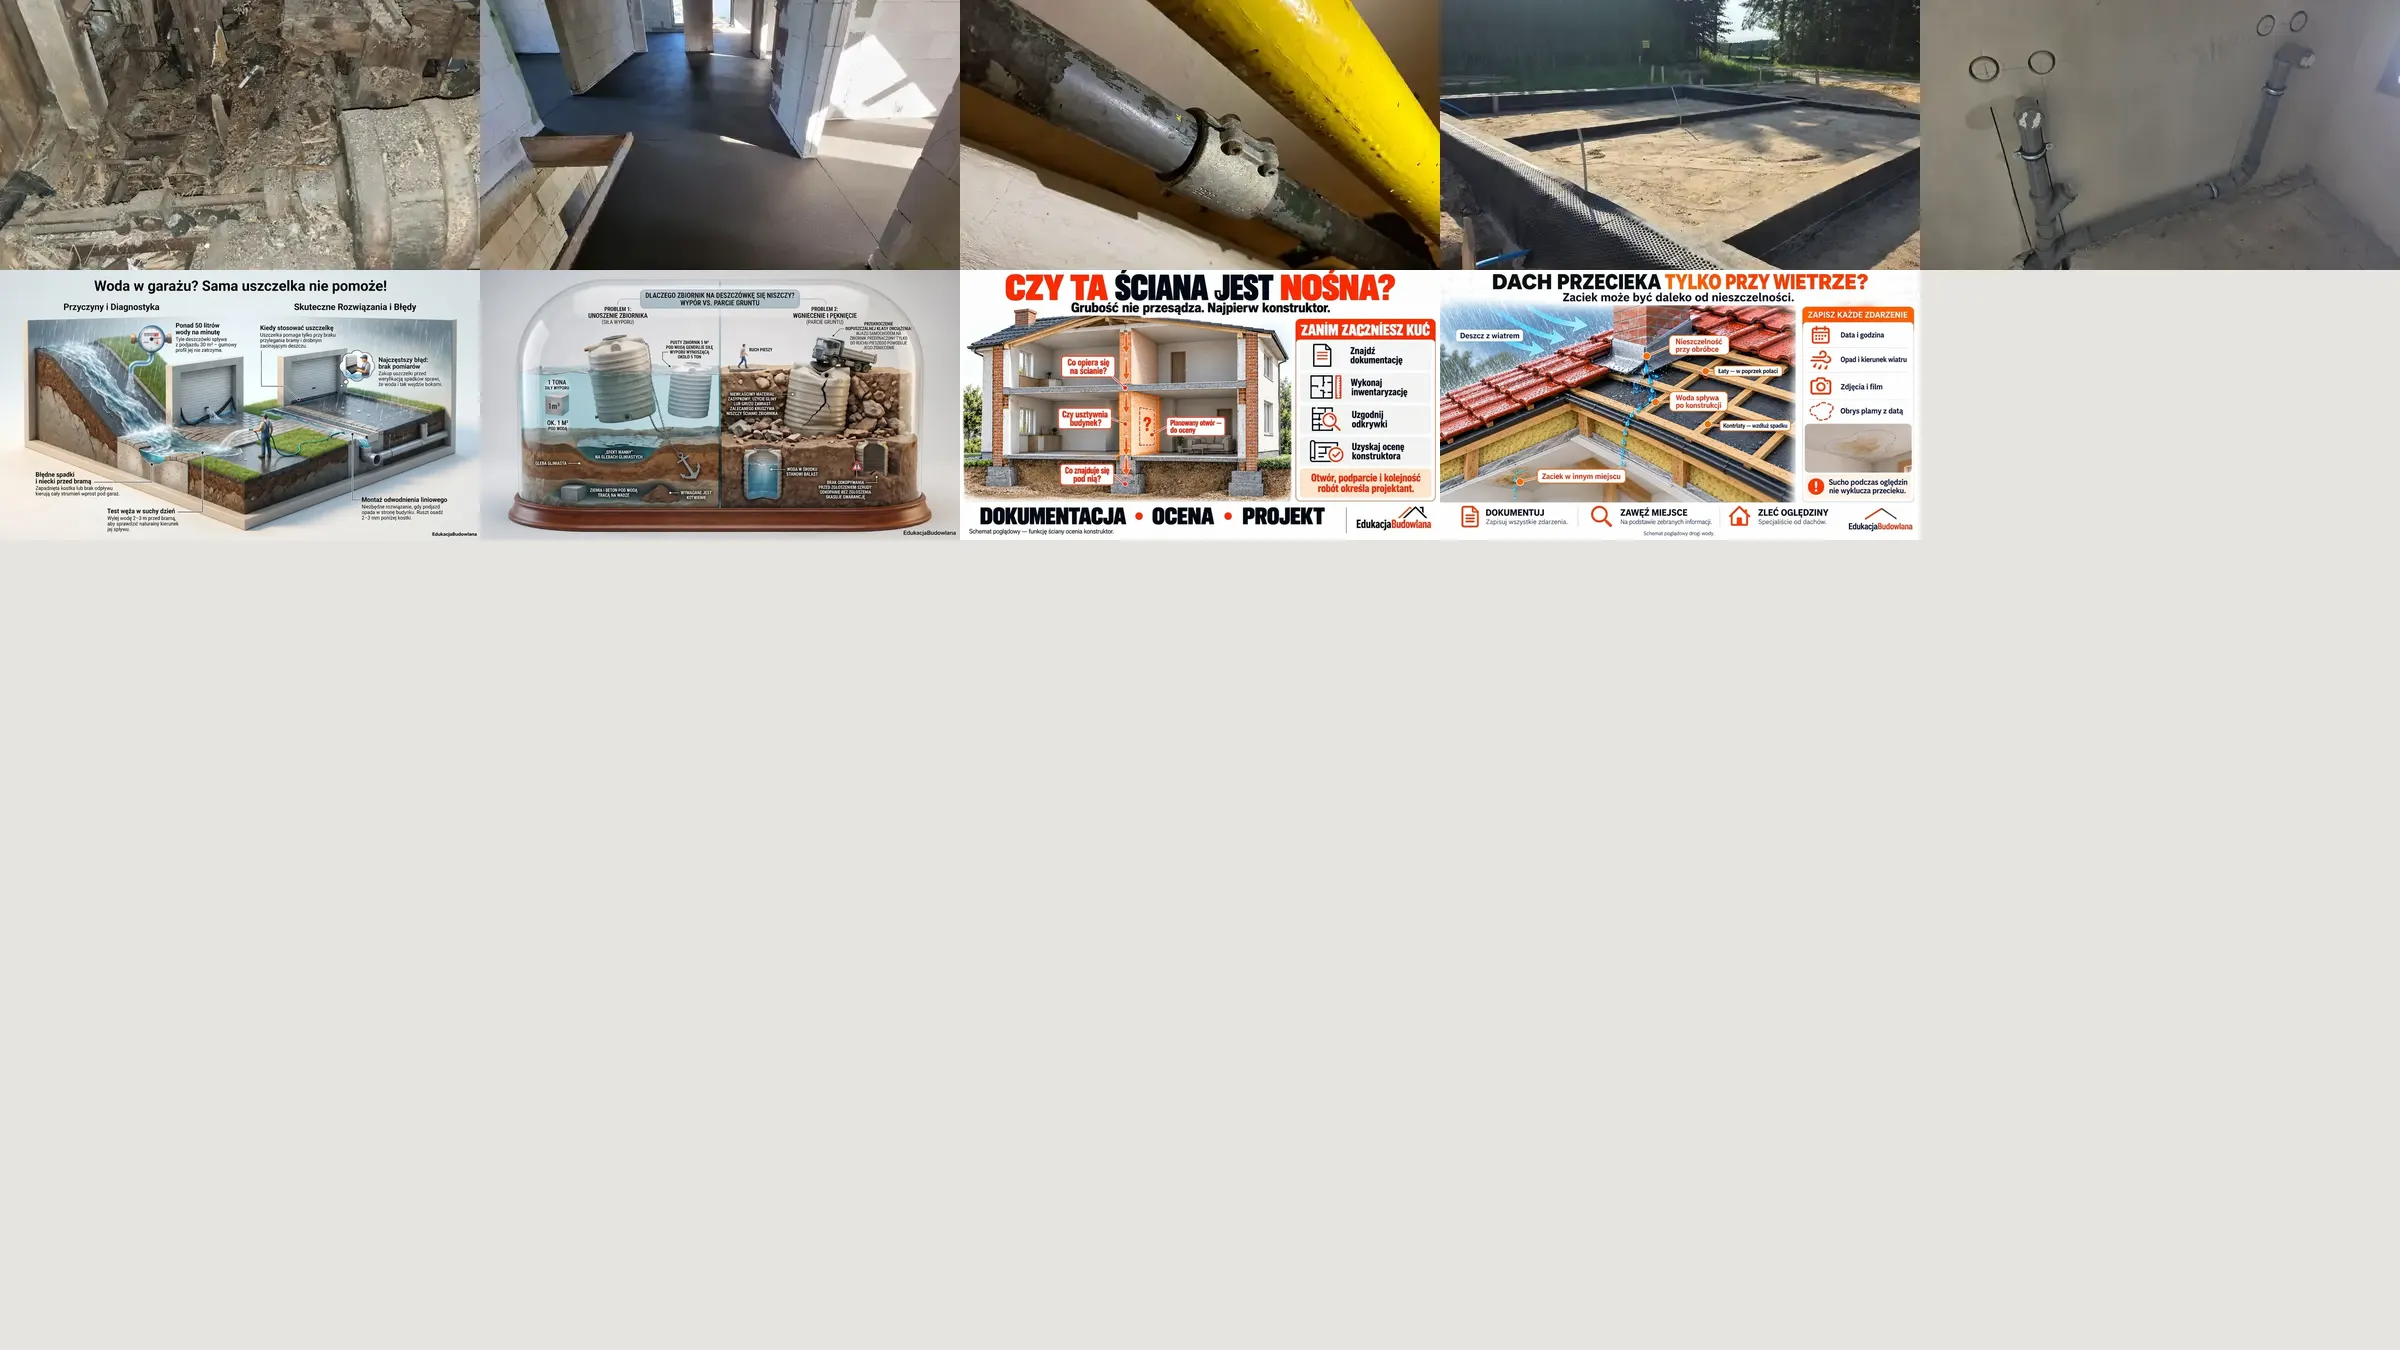
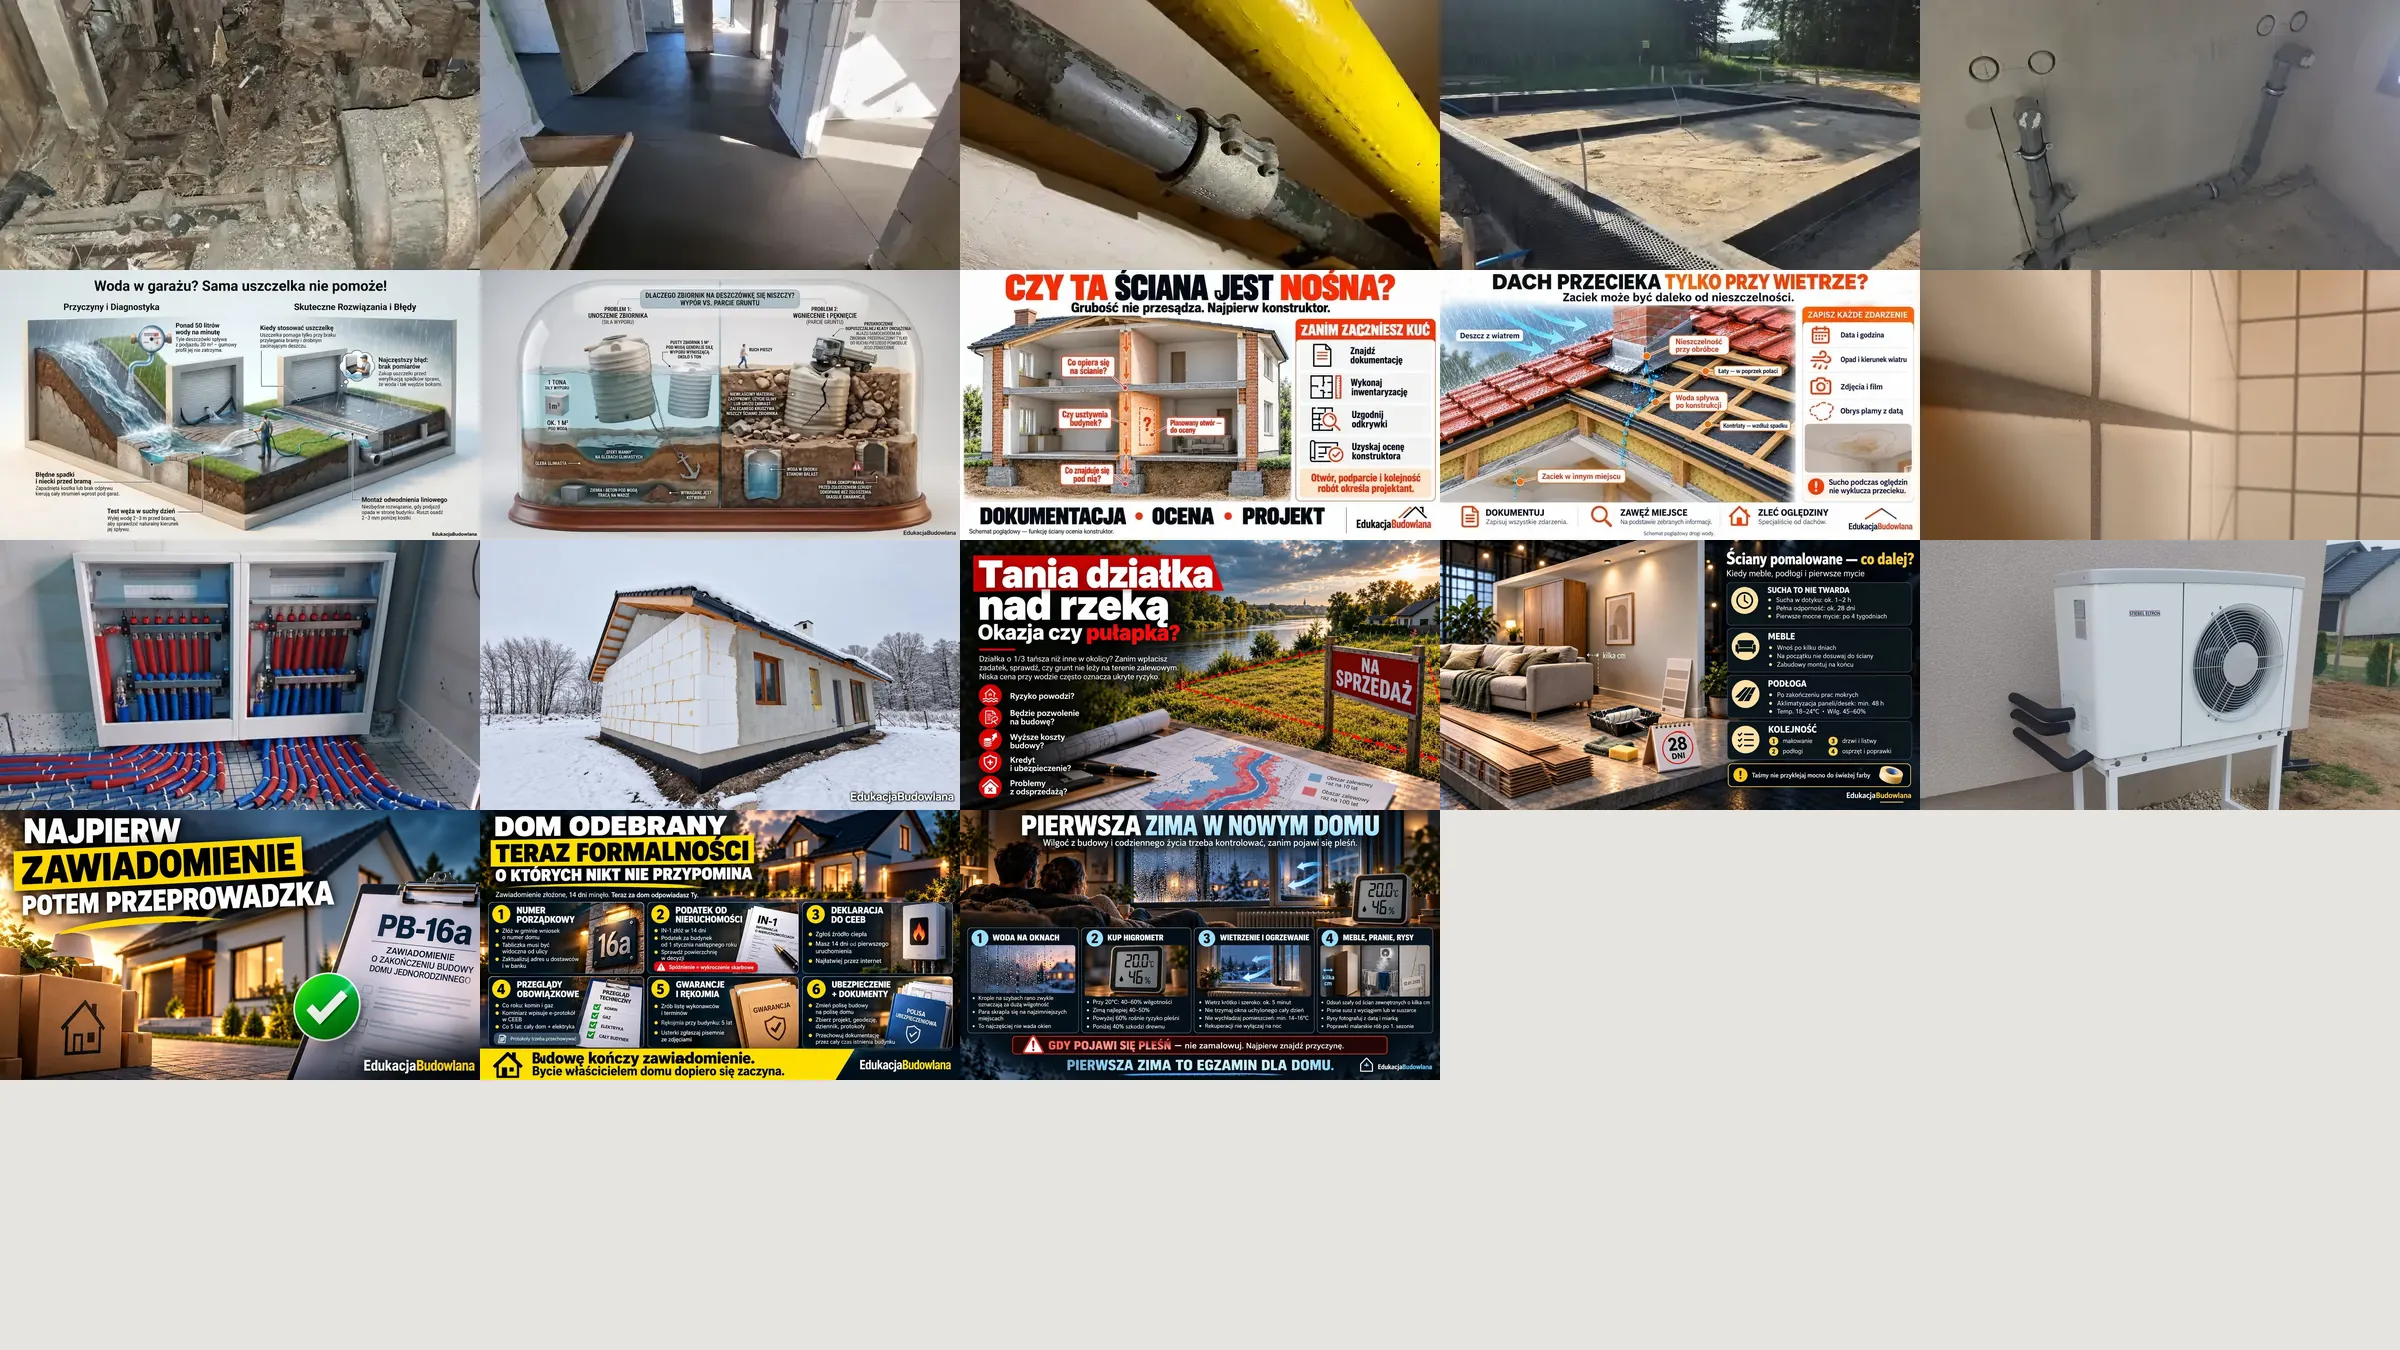
Arkusz miniatur s49 ze świeżej wersji serwera + 9 nowych miniatur; skill i plik kontrolny zgodne z mechanizmem paczek
Claude-Session: https://claude.ai/code/session_01SPUb9MEe2w7EqL1jkDi2wE

diff --git a/_narzedzia/SKILL.md b/_narzedzia/SKILL.md
@@ -1,30 +1,31 @@
 ---
 name: eb-fb-na-portal
-description: Przenosi nowe posty z fanpage'a EdukacjaBudowlana na portal edukacjabudowlana.eu (1:1, z oryginalną grafiką) i publikuje przez repozytorium GitHub. Użyj przy „przenieś posty z FB na portal” i w zadaniu zaplanowanym.
+description: Przenosi nowe posty z fanpage'a EdukacjaBudowlana na portal edukacjabudowlana.eu (tekst 1:1, oryginalna grafika) przez repozytorium GitHub piotrkobylanka-commits/edukacjabudowlana-portal. Użyj przy „przenieś posty z FB na portal” i w zadaniu zaplanowanym.
 ---
 
 # Posty z Facebooka na portal EdukacjaBudowlana
 
 ## Zanim zaczniesz
-1. Przeczytaj plik kontrolny: w repozytorium `piotrkobylanka-commits/edukacjabudowlana-portal` plik `_narzedzia/KONTROLA.md` (kopia w projekcie claude.ai „Z FB NA PORTAL”: `claude/EB_FB_portal_kontrola.md`). Zawiera zasady, stan (ostatnie przeniesione ID) i dziennik. Zasady z pliku kontrolnego są nadrzędne.
-2. Sklonuj repozytorium (add_repo z dostępem push, potem `git clone --depth 1`).
+1. Sklonuj repozytorium: add_repo `piotrkobylanka-commits/edukacjabudowlana-portal` (push), `git clone --depth 1`.
+2. Przeczytaj `_narzedzia/KONTROLA.md` (zasady, stan, dziennik). Zasady z pliku kontrolnego są nadrzędne.
+3. Środowisko Claude nie widzi edukacjabudowlana.eu ani fbcdn.net. Wszystko, co trzeba pobrać z sieci, pobiera automat GitHub Actions „Kopia strony i grafiki z FB” (`_narzedzia/mirror.py`).
 
-## Zasady bezwzględne (skrót, pełne w KONTROLA.md)
-- Tekst posta 1:1: emoji, punktory, podział linii, wielkie litery, interpunkcja. Nie poprawiaj, nie skracaj, nie „czyść”. Literówki zgłoś Piotrowi.
-- Obraz = oryginalna grafika z posta w pełnej rozdzielczości, `img/full/<ID zdjęcia>.webp`.
-- Każdy nowy obraz pokaż Piotrowi przed publikacją. Gdy pracujesz bez niego (zadanie zaplanowane), przygotuj wszystko na gałęzi `oczekuje-<data>` i NIE scalaj do `main`, dopóki Piotr nie zaakceptuje (wyślij mu podgląd okładek i listę tytułów).
-- Merytorykę sprawdź w wielu źródłach (przepisy, normy, karty producentów). Błędy i wątpliwości zgłoś Piotrowi, w treści wpisu nic o sprawdzaniu nie pisz.
-- Tylko własne posty EdukacjaBudowlana, nie udostępnienia cudzych.
-- Zero „—”, „bud24”, „INPEN”, „Claude”, „Higgsfield” w polach, które tworzysz (tytuł, lead, disclaimer). W treści 1:1 ich nie dodawaj.
+## Zasady bezwzględne (skrót)
+- Tekst posta 1:1 (emoji, punktory, linie, wersaliki, interpunkcja) w `_narzedzia/posty/<ID>.txt`. Błędy merytoryczne i literówki: oryginał zostaje, poprawka idzie do `meta.json` → `poprawki` (decyzja Piotra: poprawiamy tylko na portalu) i jest zgłaszana Piotrowi.
+- Obraz = oryginalna grafika z posta. Każdą nową grafikę pokaż Piotrowi do akceptacji przed publikacją. Bez Piotra (zadanie zaplanowane) przygotuj wszystko na gałęzi `oczekuje-<data>`, nie scalaj do `main`, wyślij mu podgląd okładek i tytułów.
+- Merytorykę sprawdź w wielu źródłach (agent w tle); w treści wpisu nic o sprawdzaniu.
+- Tylko własne posty EdukacjaBudowlana. Zero „—”, „bud24”, „INPEN”, „Claude”, „Higgsfield” w polach tworzonych (tytuł, lead, disclaimer).
+- Nie nadpisuj na serwerze plików spoza repozytorium (api.php, eb_lib.php, kontakt.php, .htaccess, p/000–426…, img/…).
 
 ## Kroki
-1. **Nowe posty.** W przeglądarce wbudowanej (zalogowany profil Piotra) otwórz album zdjęć fanpage'a: `https://www.facebook.com/media/set/?set=a.122103820251228509&type=3` oraz `...set=a.122104161585228509&type=3`. Zbierz ID zdjęć (`fbid=`) większe niż „Najwyższe przeniesione ID” z KONTROLA.md. Tylko odczyt: nie klikaj reakcji, komentarzy, „Promuj”.
-2. **Tekst 1:1.** Dla każdego ID otwórz `https://www.facebook.com/photo.php?fbid=<ID>`, kliknij „Wyświetl więcej” i pobierz podpis, zamieniając obrazki emoji na ich `alt` (innerText gubi emoji). Zapisz do `_narzedzia/posty/<ID>.txt`. Zanotuj czas publikacji (data).
-3. **Grafika.** Pobierz `src` największego obrazka na stronie zdjęcia, zapisz jako `img/full/<ID>.webp` (bez przycinania, jakość ~85).
-4. **Metryczka.** Dopisz do `_narzedzia/meta.json` dla każdego ID: date, stage (1–13), dzial, zag (slugi z `stages[].dzialy[].zag` w danych portalu), domain, norms, lead (1 zdanie: co czytelnik wyniesie), disclaimer (wzory w KONTROLA.md), cover_w, cover_h.
-5. **Konwersja.** `python3 _narzedzia/fb2portal.py _narzedzia/posty/<ID>.txt _narzedzia/meta.json > _narzedzia/wpisy/<ID>.json`
-6. **Wstawienie.** `python3 _narzedzia/wstaw.py` dopisuje wpisy do `<script id="data">` w `index.html` (na początek listy `articles`), pomija slugi i ID już obecne, waliduje JSON.
-7. **Kontrole.** Poprawny JSON, unikalne slugi, każdy `cover.src` istnieje w repo, brak zakazanych słów w polach tworzonych.
-8. **Weryfikacja merytoryczna** (agent w tle): raport POPRAWNE/NIEPEWNE/BŁĘDNE dla twierdzeń prawnych i technicznych. Błędy zgłoś Piotrowi przed publikacją.
-9. **Publikacja.** Po akceptacji Piotra: commit na `main` i push. Hostinger wdraża automatycznie z GitHuba. Sprawdź na żywo `https://edukacjabudowlana.eu/#a-<slug>` i okładkę.
-10. **Kontrola.** Zaktualizuj w KONTROLA.md sekcje „Stan” i „Dziennik” (oraz kopię w projekcie claude.ai).
+1. **Nowe posty.** Przeglądarka wbudowana (profil Piotra zalogowany na FB), tylko odczyt. Albumy: `https://www.facebook.com/media/set/?set=a.122103820251228509&type=3` i `…set=a.122104161585228509&type=3`. ID zdjęć (`fbid=`) większe niż „Najwyższe przeniesione ID” w KONTROLA.md → nowe posty.
+2. **Tekst 1:1.** `https://www.facebook.com/photo.php?fbid=<ID>` → klik „Wyświetl więcej” → podpis z emoji (obrazki emoji zamieniane na `alt`, innerText je gubi). Zapisz `_narzedzia/posty/<ID>.txt`, zanotuj datę publikacji.
+3. **Grafika.** `src` największego `<img>` na stronie zdjęcia → linia `<ID> <URL>` w `_narzedzia/fb-obrazy.txt` → commit + push. Automat zapisze `_narzedzia/obrazy/<ID>.webp`. Poczekaj na commit autora „EdukacjaBudowlana automat”, `git pull`.
+4. **Akceptacja grafik** przez Piotra (podgląd montażu).
+5. **Metryczka** w `_narzedzia/meta.json`: date, stage, dzial, zag (slugi z `stages[].dzialy[].zag`), domain, norms, lead, disclaimer, `poprawki` (opcjonalnie). Odśwież index.html i arkusz miniatur bez cache: wpisz ścieżki do `_narzedzia/pobierz.txt` (np. `index.html`, `img/thumbs/s49.webp`), push, poczekaj na automat.
+6. **Paczka grafik.** `python3 _narzedzia/pakuj.py <ID> …` → nowa `p/NNN.json` + mapa EBIMG w index.html + cover_w/h w meta.
+7. **Miniatury.** Arkusz `img/thumbs/sNN.webp` (2400×1350, siatka 5×5, kafel 480×270): wklej kafle w wolne pola (lista zajętych w KONTROLA.md), dopisz `thumb: [NN, kol, wiersz]` do meta.
+8. **Konwersja i wstawienie.** `python3 _narzedzia/fb2portal.py _narzedzia/posty/<ID>.txt _narzedzia/meta.json > _narzedzia/wpisy/<ID>.json`, potem `python3 _narzedzia/wstaw.py index.html _narzedzia/wpisy`.
+9. **Kontrole.** Poprawny JSON, unikalne slugi, ID w mapie EBIMG, brak zakazanych słów w polach tworzonych.
+10. **Publikacja.** Commit + push na `main` → automat „Publikacja” wgrywa przez FTPS zmienione pliki (wymaga sekretu `FTP_PASSWORD`; prawdziwe wgranie tylko, gdy istnieje `_narzedzia/publikacja-wlaczona`, inaczej próba). Sprawdź na żywo `https://edukacjabudowlana.eu/#a-<slug>` (okładka, miniatura, treść).
+11. **Kontrola.** Zaktualizuj w `_narzedzia/KONTROLA.md` sekcje „Stan” i „Dziennik” oraz kopię w projekcie claude.ai (`claude/EB_FB_portal_kontrola.md`).

diff --git a/_narzedzia/KONTROLA.md b/_narzedzia/KONTROLA.md
@@ -26,7 +26,9 @@ Każdy nowy post z fanpage’a EdukacjaBudowlana trafia na portal jako pełny ar
 7. Nie przenosić drugi raz posta, który już jest (sprawdzaj ID posta i tytuł).
 
 ## Budowa portalu
-Jeden plik `index.html` (~13,7 MB) na Hostingerze. Dane w `<script id="data" type="application/json">`, klucze: phases, stages (13), domains, series, articles, icons, thumbs, checklist, stops. Obrazy okładek: `img/full/<ID posta FB>.webp` (960×536).
+Jeden plik `index.html` (~13,7 MB) na Hostingerze. Dane w `<script id="data" type="application/json">` (zapis zwarty, „</” jako „<\/”), klucze: phases, stages (13), domains, series, articles, icons, thumbs, checklist, stops.
+GRAFIKI: w danych okładka to `img/full/<ID>.webp`, ale pliku nie ma na serwerze (404 to norma). Skrypt `window.EBIMG` (w index.html) ma mapę `const M={"<ID>":<nr paczki>}` i ładuje `p/NNN.json` = {"<ID>": base64 WebP 960 px, q80}. Nowe grafiki → kolejna paczka (`pakuj.py`). Ostatnia paczka: p/427.json (26.10.2026).
+Na serwerze są też pliki, których nie ma w repozytorium i których nie wolno nadpisać: api.php, eb_lib.php, kontakt.php, .htaccess, p/000–426.json, img/…, panel administratora w PHP (serwerowa wersja index.html różni się od artefaktu claude.ai).
 
 Domeny: konstrukcje, fizyka, grunt, instalacje, wykonczenia, prawo, koszty.
 Etapy: 1 Przygotowanie inwestycji i dokumentacja · 2 Roboty przygotowawcze i ziemne · 3 Fundamenty i stan zerowy · 4 SSO · 5 SSZ · 6 Instalacje wewnętrzne i prace przedtynkowe · 7 Tynki, izolacje, jastrychy i stan deweloperski · 8 Roboty wykończeniowe · 9 Przyłącza i zagospodarowanie działki · 10 Odbiory, dokumentacja i zakończenie budowy · 11 Wykonawcy i umowy · 12 Użytkowanie i gwarancje · 13 Remont, przebudowa, rozbudowa.
@@ -69,12 +71,13 @@ Etapy: 1 Przygotowanie inwestycji i dokumentacja · 2 Roboty przygotowawcze i zi
 - Automat „Kopia strony i grafiki z FB” (.github/workflows/mirror.yml): uruchamia się po zmianie `_narzedzia/trigger-mirror` (kopia całej strony z edukacjabudowlana.eu) albo `_narzedzia/fb-obrazy.txt` (pobranie grafik z FB do img/full/<ID>.webp). Powód: środowisko Claude nie widzi edukacjabudowlana.eu ani fbcdn.net, a GitHub Actions tak.
 - Automat „Publikacja” (.github/workflows/publikacja.yml): po każdym pushu do `main` (poza _narzedzia i .github) wgrywa zmienione pliki przez FTPS do `public_html` (217.65.157.30, użytkownik u475962483). Nic nie usuwa na serwerze. Wymaga sekretu repozytorium `FTP_PASSWORD` ustawionego przez Piotra. Hasła Claude nie zna i nie wpisuje.
 
-## Znane braki portalu
-- Okładki starszych artykułów (`img/full/*.webp`) zwracają 404 na serwerze (sprawdzone 26.10.2026), miniatury w `img/thumbs/sNN.webp` działają.
-- Miniatury: sprite `img/thumbs/sNN.webp` 2400×1350, siatka 5×5 kafli 480×270, pole `thumb` = [NN, kolumna, wiersz]. W s49 zajęte: wiersz 0 (5), wiersz 1 kol. 0–3 (wpisy z 25.10, ale kafle są PUSTE – brak grafik), (4,1), wiersz 2 (5), wiersz 3 kol. 0–2. Następne wolne: (3,3), (4,3), wiersz 4; potem nowy sprite s50.
-- Wpisy z 25.10.2026 (brama, zbiornik, ściana nośna, dach przy wietrze) nie mają okładek ani miniatur na serwerze – do uzupełnienia z grafik FB.
+## Uwagi techniczne
+- CDN Hostingera potrafi oddać starą wersję pliku graficznego. Pliki zmieniane (arkusz miniatur, index.html) zawsze pobieraj z `?nocache=<czas>` (mirror.py robi to sam; lista w `_narzedzia/pobierz.txt`).
+- Repozytorium NIE jest pełną kopią serwera: trzyma tylko pliki zarządzane (index.html, nowe p/NNN.json, zmieniane arkusze img/thumbs). Wgrywanie FTP niczego nie usuwa.
+- Miniatury: sprite `img/thumbs/sNN.webp` 2400×1350, siatka 5×5 kafli 480×270, pole `thumb` = [NN, kolumna, wiersz]. W s49 zajęte: wiersz 0 (5), wiersz 1 (5; kol. 0–3 wpisy z 25.10), wiersz 2 (5), wiersz 3 kol. 0–2 (wpisy z 26.10). Następne wolne: (3,3), (4,3), wiersz 4; potem nowy sprite s50.
+- (Sprostowanie 26.10: okładki i miniatury wpisów z 25.10 są na serwerze; wcześniejsza uwaga o brakach wynikała z kopii z pamięci podręcznej CDN.)
 
 ## Dziennik
 - 26.10.2026: utworzono plik kontrolny; ustalono budowę portalu i stan na 25.10.2026.
-- 26.10.2026: automat GitHuba skopiował stronę (index.html 13,7 MB, 90 zasobów; 1329 okładek img/full brak na serwerze). Weryfikacja merytoryczna 9 postów: poprawki tylko na portalu (PB-16a nowy wzór, zaświadczenie PINB „może”, załączniki przy projektach od 19.09.2020, WZ od 1.01.2027 tylko z prawem do dysponowania, progi f-gazów, literówki). Wpisy wstawione do index.html, miniatury w s49.
+- 26.10.2026: automat GitHuba skopiował index.html (13,7 MB, zgodny z serwerem). Grafiki 9 wpisów spakowane do p/427.json; arkusz s49 odświeżony z serwera bez cache i uzupełniony o 9 miniatur. Weryfikacja merytoryczna 9 postów: poprawki tylko na portalu (PB-16a nowy wzór, zaświadczenie PINB „może”, załączniki przy projektach od 19.09.2020, WZ od 1.01.2027 tylko z prawem do dysponowania, progi f-gazów, literówki). Wpisy wstawione do index.html, miniatury w s49.
 - 26.10.2026: założono repozytorium GitHub i automaty; przygotowano 9 wpisów z 26.10 (zdjęcia FB 122142724155, …726459, …728661, …732153, …747843, …751101, …767925, …768747, …769719). Piotr zaakceptował okładki; myślnik „—” na grafice „Ściany pomalowane” i literówki („gwarancyjn9ą”, „Farbę wysycha się”) zostają jak w oryginale.
